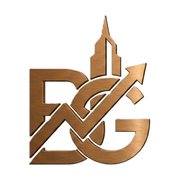
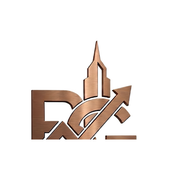
feat: add email notification for new contacts and assistant escalation

Changed region(s): [[0.1389, 0.0833, 0.8611, 0.9167]]

diff --git a/components/AssistantChat.tsx b/components/AssistantChat.tsx
@@ -1,6 +1,7 @@
 "use client"
 
 import { useState, useRef, useEffect } from "react"
+import { submitContact } from "@/lib/contact-api"
 
 interface Message {
   role: "user" | "assistant"
@@ -30,6 +31,18 @@ async function sendMessage(message: string, conversationId: string | null) {
   return res.json()
 }
 
+/**
+ * Construye una transcripcion legible de la conversacion para enviarla
+ * como contexto al endpoint /contact cuando el asistente detecta
+ * intencion real de hablar con un humano.
+ */
+function buildTranscript(messages: Message[]): string {
+  return messages
+    .map((m) => `${m.role === "user" ? "Visitante" : "Asistente"}: ${m.content}`)
+    .join("\n")
+    .slice(-1800) // limite del campo `context` en el backend (2000 caracteres)
+}
+
 export function AssistantChat() {
   const [messages, setMessages] = useState<Message[]>([
     {
@@ -43,9 +56,19 @@ export function AssistantChat() {
   const [conversationId, setConversationId] = useState<string | null>(null)
   const bottomRef = useRef<HTMLDivElement>(null)
 
+  // Escalado a humano: cuando el asistente detecta intencion real de
+  // hablar con un asesor, pedimos nombre y correo antes de notificar
+  // al equipo (ver backend/routers/contact.py + backend/emailer.py).
+  const [escalationState, setEscalationState] = useState<"idle" | "collecting" | "submitting" | "submitted">(
+    "idle",
+  )
+  const [escalationName, setEscalationName] = useState("")
+  const [escalationEmail, setEscalationEmail] = useState("")
+  const [escalationError, setEscalationError] = useState<string | null>(null)
+
   useEffect(() => {
     bottomRef.current?.scrollIntoView({ behavior: "smooth" })
-  }, [messages])
+  }, [messages, escalationState])
 
   async function handleSend() {
     const text = input.trim()
@@ -62,6 +85,9 @@ export function AssistantChat() {
         ...prev,
         { role: "assistant", content: data.response ?? data.message ?? "Sin respuesta." },
       ])
+      if (data.escalate_to_human && escalationState === "idle") {
+        setEscalationState("collecting")
+      }
     } catch (err) {
       const detail = err instanceof Error ? err.message : ""
       setMessages((prev) => [
@@ -76,6 +102,40 @@ export function AssistantChat() {
       ])
     } finally {
       setLoading(false)
+    }
+  }
+
+  async function handleEscalationSubmit(e: React.FormEvent) {
+    e.preventDefault()
+    const name = escalationName.trim()
+    const email = escalationEmail.trim()
+    if (!name || !email) {
+      setEscalationError("Por favor completa tu nombre y correo.")
+      return
+    }
+
+    setEscalationError(null)
+    setEscalationState("submitting")
+
+    try {
+      await submitContact({
+        name,
+        email,
+        context: `Escalado desde el asistente de IA. Conversación:\n${buildTranscript(messages)}`,
+      })
+      setEscalationState("submitted")
+      setMessages((prev) => [
+        ...prev,
+        {
+          role: "assistant",
+          content: `Gracias, ${name}. Un asesor de B&G Consulting se pondrá en contacto contigo a ${email} a la brevedad.`,
+        },
+      ])
+    } catch (err) {
+      setEscalationState("collecting")
+      setEscalationError(
+        err instanceof Error ? err.message : "No se pudo enviar tu solicitud. Inténtalo de nuevo.",
+      )
     }
   }
 
@@ -119,6 +179,44 @@ export function AssistantChat() {
             </div>
           </div>
         )}
+        {escalationState === "collecting" || escalationState === "submitting" ? (
+          <div className="flex justify-start">
+            <form
+              onSubmit={handleEscalationSubmit}
+              className="max-w-[85%] space-y-3 rounded-2xl rounded-bl-sm border border-border bg-card px-5 py-4"
+            >
+              <p className="text-sm leading-relaxed text-foreground">
+                Para que un asesor de B&amp;G Consulting te contacte, compárteme tu nombre y correo.
+              </p>
+              <div className="flex flex-col gap-2 sm:flex-row">
+                <input
+                  type="text"
+                  value={escalationName}
+                  onChange={(e) => setEscalationName(e.target.value)}
+                  placeholder="Nombre completo"
+                  disabled={escalationState === "submitting"}
+                  className="flex-1 rounded-lg border border-border bg-background px-3 py-2 text-sm text-foreground placeholder:text-muted-foreground focus:outline-none focus:ring-1 focus:ring-ring disabled:opacity-50"
+                />
+                <input
+                  type="email"
+                  value={escalationEmail}
+                  onChange={(e) => setEscalationEmail(e.target.value)}
+                  placeholder="Correo electrónico"
+                  disabled={escalationState === "submitting"}
+                  className="flex-1 rounded-lg border border-border bg-background px-3 py-2 text-sm text-foreground placeholder:text-muted-foreground focus:outline-none focus:ring-1 focus:ring-ring disabled:opacity-50"
+                />
+              </div>
+              {escalationError && <p className="text-xs text-destructive">{escalationError}</p>}
+              <button
+                type="submit"
+                disabled={escalationState === "submitting"}
+                className="w-full rounded-lg bg-[var(--color-noir)] px-4 py-2.5 text-xs font-light uppercase tracking-[0.18em] text-[var(--color-noir-foreground)] transition-opacity hover:opacity-90 disabled:opacity-50"
+              >
+                {escalationState === "submitting" ? "Enviando..." : "Solicitar contacto"}
+              </button>
+            </form>
+          </div>
+        ) : null}
         <div ref={bottomRef} />
       </div>
 

diff --git a/components/landing/nav-bar.tsx b/components/landing/nav-bar.tsx
@@ -20,15 +20,15 @@ export function NavBar() {
         scrolled ? "border-b border-noir-foreground/10 bg-noir/90 backdrop-blur-md" : "bg-transparent"
       }`}
     >
-      <div className="mx-auto flex h-20 max-w-7xl items-center justify-between px-6 lg:px-10">
+      <div className="mx-auto flex h-24 max-w-7xl items-center justify-between px-6 lg:h-28 lg:px-10">
         <Link href="/" className="flex items-center" aria-label="B&G Consulting — Inicio">
           <Image
-            src="/brand/logo-bg-consulting.png"
+            src="/brand/logo-bg-consulting-v2.png"
             alt="B&G Consulting"
-            width={1053}
-            height={496}
+            width={577}
+            height={614}
             priority
-            className="h-11 w-auto lg:h-12"
+            className="h-20 w-auto lg:h-24"
           />
         </Link>
 

diff --git a/components/landing/footer.tsx b/components/landing/footer.tsx
@@ -8,11 +8,11 @@ export function Footer() {
         <div className="flex flex-col gap-12 border-t border-noir-foreground/10 pt-12 md:flex-row md:justify-between">
           <div className="flex max-w-sm flex-col gap-4">
             <Image
-              src="/brand/logo-bg-consulting.png"
+              src="/brand/logo-bg-consulting-v2.png"
               alt="B&G Consulting"
-              width={1053}
-              height={496}
-              className="h-14 w-auto self-start"
+              width={577}
+              height={614}
+              className="h-24 w-auto self-start"
             />
             <p className="text-sm font-light leading-relaxed text-noir-foreground/50">
               Inversiones inmobiliarias de excepción en Europa, Latinoamérica y Dubái. Cada oportunidad,

diff --git a/components/landing/hero.tsx b/components/landing/hero.tsx
@@ -15,7 +15,7 @@ export function Hero() {
       </div>
 
       {/* Content - left aligned editorial */}
-      <div className="relative z-10 mx-auto w-full max-w-7xl px-6 lg:px-10">
+      <div className="relative z-10 mx-auto w-full max-w-7xl px-6 pt-28 lg:px-10 lg:pt-32">
         <div className="max-w-2xl">
           <span className="mb-6 inline-block text-xs font-light uppercase tracking-[0.35em] text-gold-soft">
             Europa · Latinoamérica · Dubái

diff --git a/backend/emailer.py b/backend/emailer.py
@@ -1,0 +1,76 @@
+"""
+Modulo de notificaciones por correo (Zoho Mail SMTP).
+Referencia: solicitado para avisar al equipo de B&G Consulting cuando
+llega un nuevo contacto (formulario o escalado desde el asistente de IA).
+
+Variables de entorno requeridas (configurar en Railway):
+- ZOHO_EMAIL_ADDRESS: la casilla que envia y recibe los avisos
+  (ej. contact@bgestateconsulting.com)
+- ZOHO_EMAIL_APP_PASSWORD: contrasena de aplicacion generada en Zoho
+  (Zoho Mail > Configuracion > Seguridad > Contrasenas de aplicacion),
+  NO la contrasena normal de la cuenta.
+
+Fallo seguro: si el envio de correo falla (credenciales ausentes, red,
+etc.) se registra el error en logs pero NUNCA se interrumpe el flujo
+principal (guardar el contacto/escalado en base de datos siempre tiene
+prioridad sobre el envio del aviso).
+"""
+
+import logging
+import os
+import smtplib
+from email.mime.text import MIMEText
+from email.utils import formatdate
+
+logger = logging.getLogger("uvicorn.error")
+
+ZOHO_SMTP_HOST = "smtp.zoho.com"
+ZOHO_SMTP_PORT = 465
+
+
+def send_lead_notification(*, name: str, email: str, context: str, source: str) -> None:
+    """
+    Envia un correo de aviso a la casilla configurada en ZOHO_EMAIL_ADDRESS
+    cuando llega un nuevo contacto (formulario web o escalado del asistente).
+
+    No lanza excepciones: cualquier fallo queda registrado en logs y
+    la funcion retorna silenciosamente para no romper el request HTTP
+    que la invoca.
+    """
+    sender = os.environ.get("ZOHO_EMAIL_ADDRESS")
+    password = os.environ.get("ZOHO_EMAIL_APP_PASSWORD")
+
+    if not sender or not password:
+        logger.warning(
+            "[emailer] ZOHO_EMAIL_ADDRESS / ZOHO_EMAIL_APP_PASSWORD no configuradas; "
+            "se omite el envio de la notificacion de contacto."
+        )
+        return
+
+    subject = f"Nuevo contacto ({source}) — {name}"
+    body = (
+        f"Se ha registrado un nuevo contacto en bgestateconsulting.com.\n\n"
+        f"Origen: {source}\n"
+        f"Nombre: {name}\n"
+        f"Email: {email}\n\n"
+        f"Mensaje / contexto:\n{context}\n"
+    )
+
+    message = MIMEText(body, "plain", "utf-8")
+    message["Subject"] = subject
+    message["From"] = sender
+    message["To"] = sender
+    message["Reply-To"] = email
+    message["Date"] = formatdate(localtime=True)
+
+    try:
+        with smtplib.SMTP_SSL(ZOHO_SMTP_HOST, ZOHO_SMTP_PORT, timeout=15) as server:
+            server.login(sender, password)
+            server.sendmail(sender, [sender], message.as_string())
+        logger.info("[emailer] Notificacion de contacto enviada (%s)", source)
+    except Exception as exc:  # noqa: BLE001
+        logger.error(
+            "[emailer] Fallo al enviar notificacion de contacto: %s: %s",
+            exc.__class__.__name__,
+            exc,
+        )

diff --git a/backend/routers/contact.py b/backend/routers/contact.py
@@ -21,6 +21,7 @@ from fastapi import APIRouter, Depends, status
 from sqlalchemy.orm import Session
 
 from database import get_db
+from emailer import send_lead_notification
 from models.investor import Investor, QualificationStatus
 from models.lead_escalation import LeadEscalation, EscalationStatus
 from schemas.contact import ContactCreate, ContactCreated
@@ -78,5 +79,16 @@ def create_contact(
     db.add(escalation)
     db.commit()
     db.refresh(escalation)
+
+    # Aviso por correo (best-effort, no bloquea ni falla la respuesta).
+    # Este mismo endpoint recibe tanto el formulario de contacto como los
+    # escalados iniciados desde el asistente de IA (ver AssistantChat.tsx).
+    source = "Asistente de IA" if data.context.startswith("Escalado desde el asistente") else "Formulario de contacto"
+    send_lead_notification(
+        name=data.name,
+        email=data.email,
+        context=data.context,
+        source=source,
+    )
 
     return ContactCreated(id=escalation.id, status="received")
